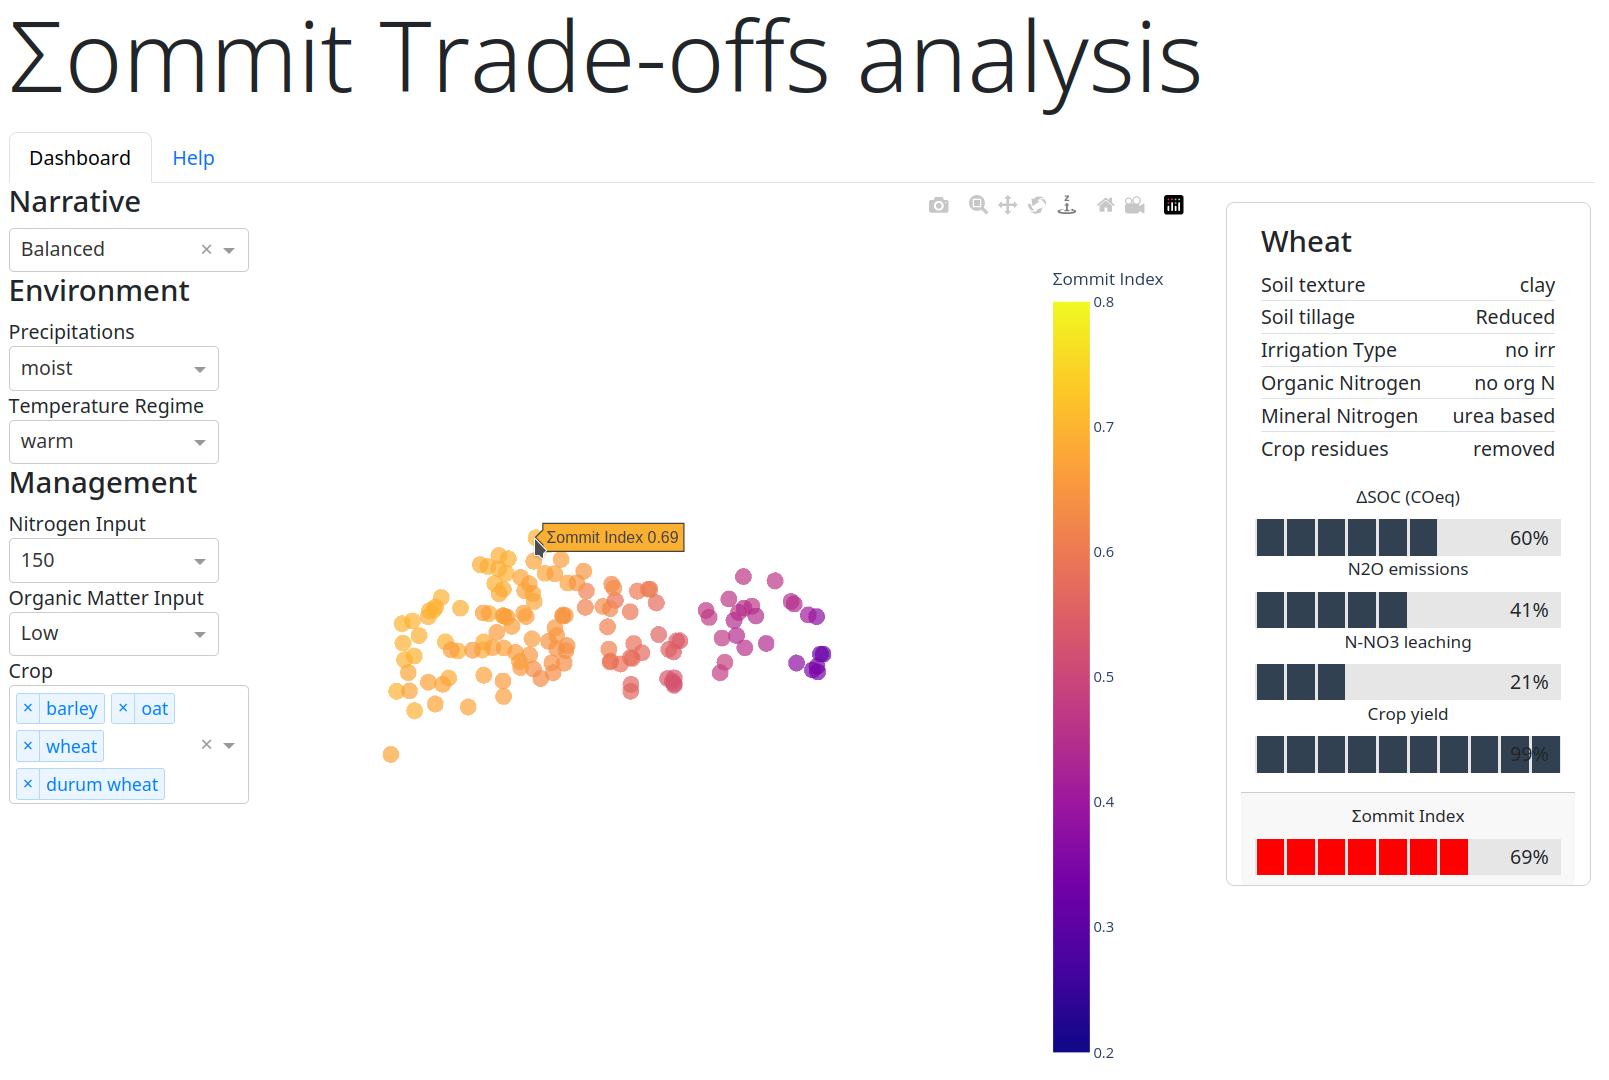
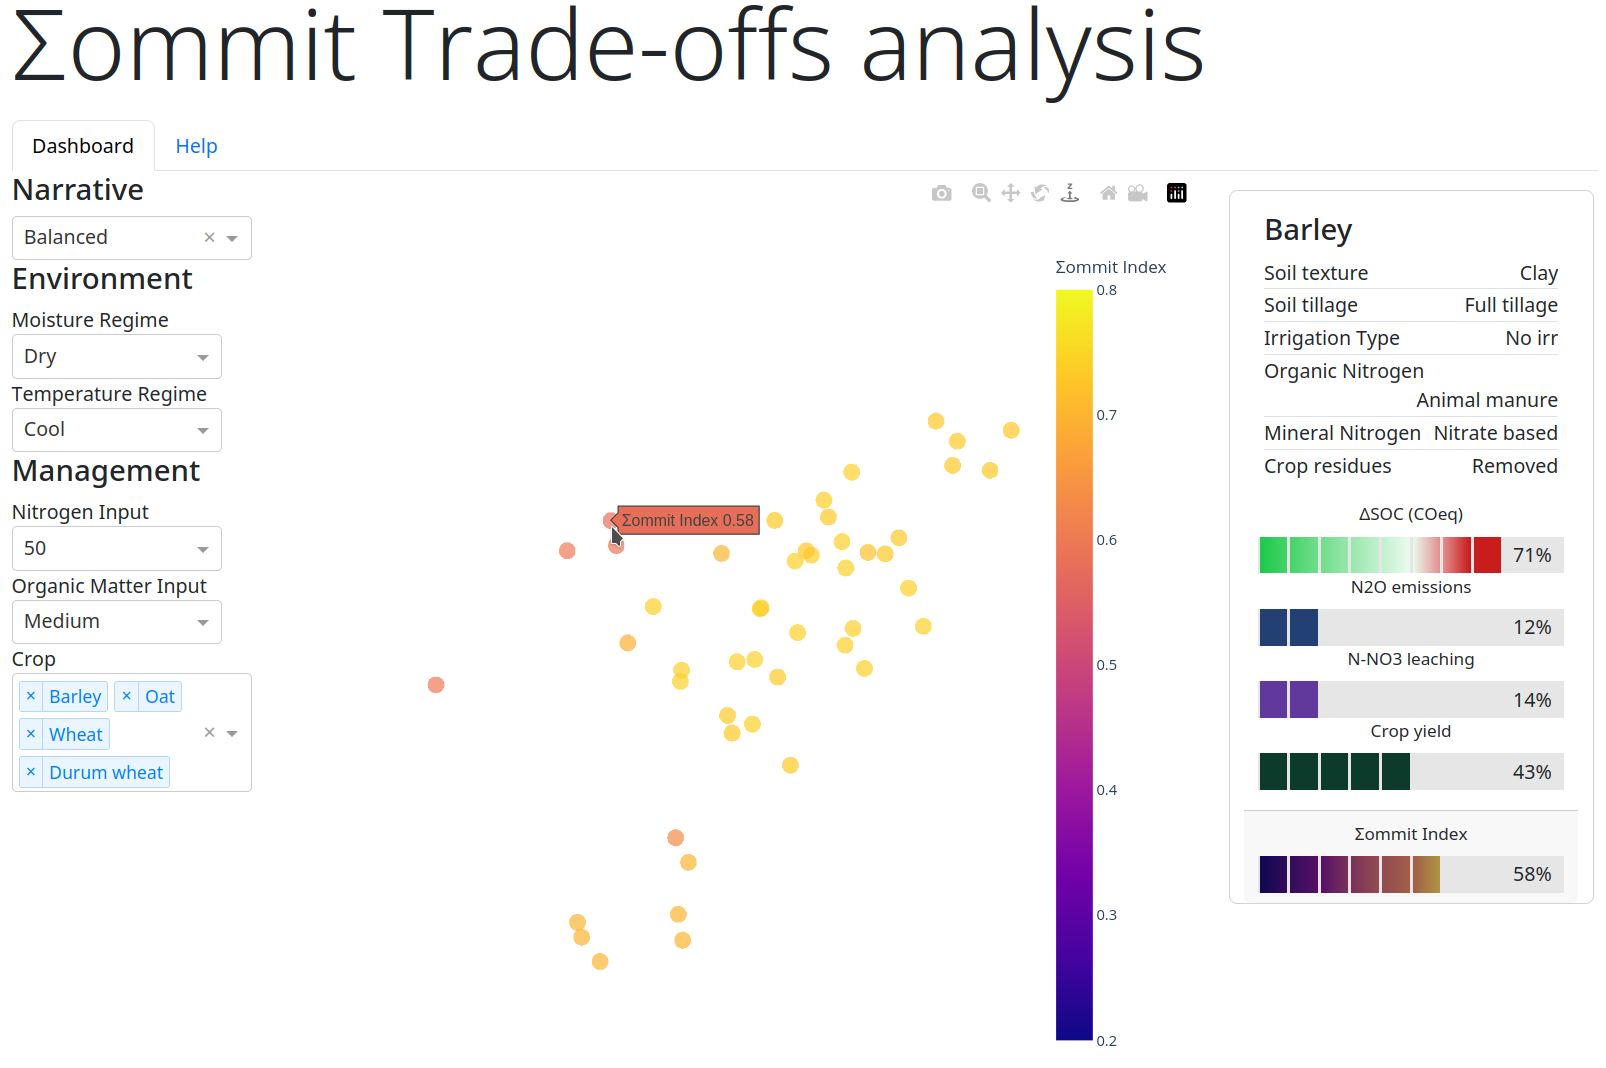
Updates to the README
- Screenshot updated to the last version
- Corrected the path to the mfa script

diff --git a/README.md b/README.md
@@ -1,26 +1,26 @@
-- [Σommit Trade-offs analysis dashboard](#org7f721e1)
-  - [Introduction](#org468d4d0)
-  - [Screenshots](#org67d3e08)
-  - [Installation](#org5021846)
-    - [Pre-requisites](#orge8def6d)
-    - [Windows](#org657fb58)
-    - [Unix-like systems (MacOS, Linux, etc.)](#orga34e27e)
-  - [How to use the dashboard](#org0ac1698)
+- [Σommit Trade-offs analysis dashboard](#org5f13274)
+  - [Introduction](#org9f8c007)
+  - [Screenshots](#orgc752d46)
+  - [Installation](#org56b1b9b)
+    - [Pre-requisites](#orge0e51ac)
+    - [Windows](#org59a5a5a)
+    - [Unix-like systems (MacOS, Linux, etc.)](#orgf77f082)
+  - [How to use the dashboard](#org8317c5a)
     - [Comparative visualisation of multi-dimensional EMT distances between agronomic case-scenarios](#emt-distances)
-    - [How to interact with the dashboard](#org123a6a8)
-    - [How to interpret the visualization](#org0539415)
+    - [How to interact with the dashboard](#orgbfbcbbb)
+    - [How to interpret the visualization](#org1164b10)
   - [Methodology](#methods)
-    - [Multiple Factor Analysis (MFA)](#orgf12365e)
-    - [MFA implementation](#org1a6a9ae)
-  - [Licensing](#org1829c4b)
+    - [Multiple Factor Analysis (MFA)](#org46843a0)
+    - [MFA implementation](#orgb10ec06)
+  - [Licensing](#orgc99aa2a)
 
 
-<a id="org7f721e1"></a>
+<a id="org5f13274"></a>
 
 # Σommit Trade-offs analysis dashboard
 
 
-<a id="org468d4d0"></a>
+<a id="org9f8c007"></a>
 
 ## Introduction
 
@@ -31,26 +31,26 @@ The dataset was generated taking into account roughly two milions agronomic case
 More details on the rules and data analysis will be found on the main paper "Calone, R., Fiore, A., Pellis, G., Mongiano, G., & Bregaglio, S. A fuzzy logic evaluation of synergies and trade-offs between agricultural production and climate change mitigation" (currently submitted to *Journal of Cleaner Production*).
 
 
-<a id="org67d3e08"></a>
+<a id="orgc752d46"></a>
 
 ## Screenshots
 
 ![img](./sommit_dashboard.png)
 
 
-<a id="org5021846"></a>
+<a id="org56b1b9b"></a>
 
 ## Installation
 
 
-<a id="orge8def6d"></a>
+<a id="orge0e51ac"></a>
 
 ### Pre-requisites
 
 You will need **Docker** and **Docker Compose** installed. Please refer to official install instructions for your system on the [Docker website](https://docs.docker.com/engine/install/). You'll optionally need Git installed if you want to download the dashboard through git; you can also download this repository via the GitHub interface
 
 
-<a id="org657fb58"></a>
+<a id="org59a5a5a"></a>
 
 ### Windows
 
@@ -61,7 +61,7 @@ You will need **Docker** and **Docker Compose** installed. Please refer to offic
 5.  The dashboard can be reached using you favourite browser (Firefox, Edge, Chrome, ecc.) at the following URL <http://localhost:5001>.
 
 
-<a id="orga34e27e"></a>
+<a id="orgf77f082"></a>
 
 ### Unix-like systems (MacOS, Linux, etc.)
 
@@ -76,7 +76,7 @@ docker-compose up -d # or `docker compose up -d` if your using Compose v2
 That's it! Wait for the docker container to be built, then you can reach the container at <http://localhost:5001>
 
 
-<a id="org0ac1698"></a>
+<a id="org8317c5a"></a>
 
 ## How to use the dashboard
 
@@ -92,7 +92,7 @@ This dashboard presents a 3D scatterplot visualization showcasing what we can si
 -   Trade-off components (T)
 
 
-<a id="org123a6a8"></a>
+<a id="orgbfbcbbb"></a>
 
 ### How to interact with the dashboard
 
@@ -149,7 +149,7 @@ This dashboard presents a 3D scatterplot visualization showcasing what we can si
     -   ****Additional Controls****: Look for the toolbar in the top right corner of the plot area. Here, you'll find tools for panning, zooming, and adjusting the rotation style between. There's also an option to take a screenshot of the current view of the plot, allowing you to save it for future reference or share with others.
 
 
-<a id="org0539415"></a>
+<a id="org1164b10"></a>
 
 ### How to interpret the visualization
 
@@ -167,7 +167,7 @@ This visualization benefits non-experts, providing a visual aid to understand th
 ## Methodology
 
 
-<a id="orgf12365e"></a>
+<a id="org46843a0"></a>
 
 ### Multiple Factor Analysis (MFA)
 
@@ -182,14 +182,14 @@ Here's a simplified explanation of some MFA features to help you understand how 
 MFA helps us to synthesize and visualize complex and numerous data, revealing underlying patterns and relationships that might not be apparent when looking at the variables separately.
 
 
-<a id="org1a6a9ae"></a>
+<a id="orgb10ec06"></a>
 
 ### MFA implementation
 
-For statistics nerds (🤓), the actual R code that generated the MFA on which the dashboard relies, using the [FactoMineR](http://factominer.free.fr/factomethods/multiple-factor-analysis.html) R package, can be found in the `mfa/mfa.R` file.
+For statistics nerds (🤓), the actual R code that generated the MFA on which the dashboard relies, using the [FactoMineR](http://factominer.free.fr/factomethods/multiple-factor-analysis.html) R package, can be found in the `R/mfa.R` file.
 
 
-<a id="org1829c4b"></a>
+<a id="orgc99aa2a"></a>
 
 ## Licensing
 
